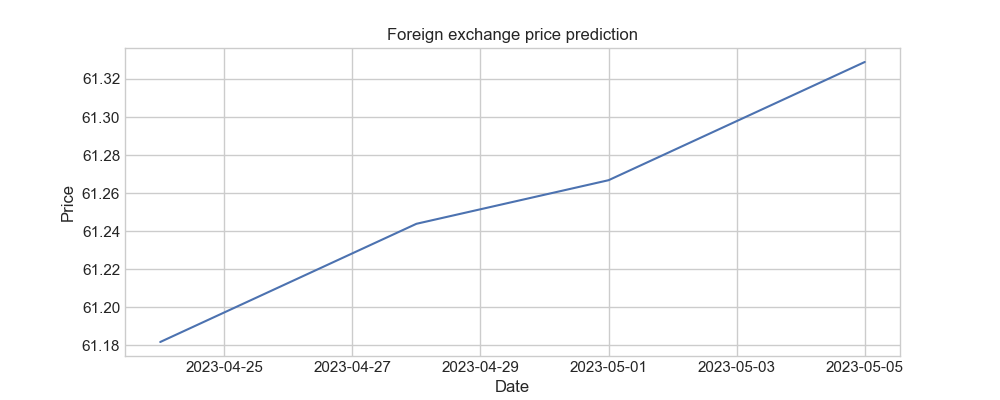
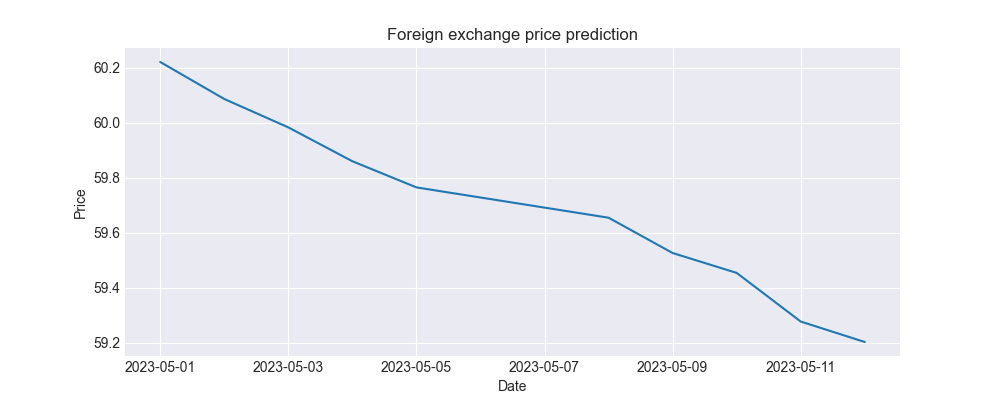
Removes dead code and refactors code.

diff --git a/predict.py b/predict.py
@@ -1,21 +1,16 @@
-# Predicts the exchange rates
-from tabnanny import verbose
+# Loads the foreign exchange rates
 from pandas import *
 import matplotlib.pyplot as plt
-import seaborn as sns
 from autots import AutoTS
 
-sns.set()
-plt.style.use('seaborn-whitegrid')
+plt.style.use('seaborn-v0_8-darkgrid')
 
 # Load the data
 data = read_csv('rates.csv')
 data['date'] = to_datetime(data['date'])
 
 # Predict the foreign exchange rate
-
-
-def forecast_rate(currency, days):
+def forecast_rate(currency, days=10):
     # Build the model
     model = AutoTS(forecast_length=days, frequency='infer',
                    ensemble='simple', model_list='superfast', verbose=0)
@@ -27,30 +22,26 @@ def forecast_rate(currency, days):
 
     return forecast
 
-
-# Initial variables
-days = 10
-
 # Plot the forecast results
 plt.figure(figsize=(10, 4))
 plt.title('Foreign exchange price prediction')
 plt.xlabel('Date')
 plt.ylabel('Price')
 
-cad = forecast_rate('CAD', days)
-print('CAD/INR prediction for next', days, 'days:\n', cad)
+cad = forecast_rate('CAD')
+print('CAD/INR prediction for next few days:\n', cad)
 plt.plot(cad)
 
-# usd = forecast_rate('USD', days)
-# print('USD/INR prediction for next', days, 'days:\n', usd)
+# usd = forecast_rate('USD')
+# print('USD/INR prediction for next few days:\n', usd)
 # plt.plot(usd)
 
-# eur = forecast_rate('EUR', days)
-# print('EUR/INR prediction for next', days, 'days:\n', eur)
+# eur = forecast_rate('EUR')
+# print('EUR/INR prediction for next few days:\n', eur)
 # plt.plot(eur)
 
-# gbp = forecast_rate('GBP', days)
-# print('GBP/INR prediction for next', days, 'days:\n', gbp)
+# gbp = forecast_rate('GBP')
+# print('GBP/INR prediction for next few days:\n', gbp)
 # plt.plot(gbp)
 
 plt.savefig('forecast.png')
